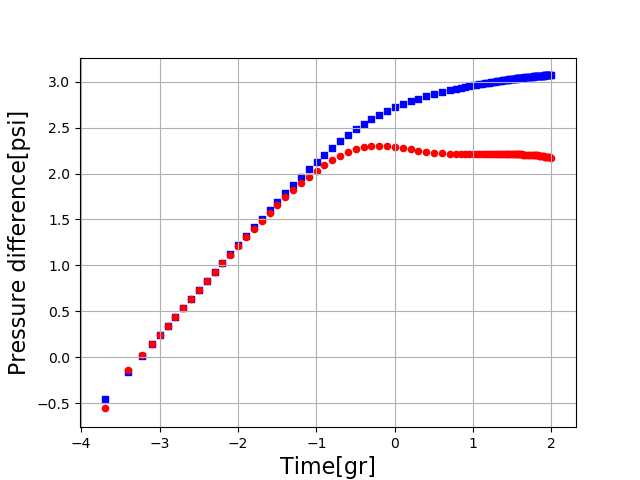
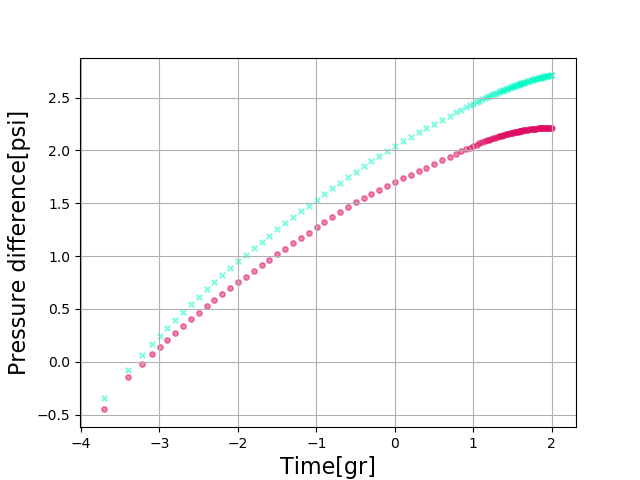
well test3

diff --git a/interface.py b/interface.py
@@ -12,7 +12,7 @@ from PyQt5.QtWidgets import QBoxLayout, QTextEdit, QRadioButton, QButtonGroup, Q
 word = None
 global hpp
 globals()['interface'] = True
-is_open = True
+globals()['is_open'] = True
 pic1 = True
 if globals().get("processor") is not None:
     global processor
@@ -21,12 +21,11 @@ else:
 
 
 def den():
-    global is_open
-    is_open = False
+    globals()['is_open'] = False
+
 
 def pos():
-    global is_open
-    is_open = True
+    globals()['is_open'] = True
 
 
 class bottom_collection:
@@ -82,13 +81,13 @@ class bottom_collection:
                 return r'.\source\Infinite_Conductivity_fracture(Radius)\sample720.txt'
 
 
-def log_plot(df: pd.DataFrame, **kwargs):
+def log_plot(df: pd.DataFrame):
     plt.cla()
     plt.grid(True)
     plt.scatter([np.log10(float(i)) for i in df[df.columns[0]]], [np.log10(float(i)) for i in df[df.columns[1]]],
-                c='b', s=20, marker='s')
+                c='#01f9c6', s=15, marker='x', alpha=0.5)
     plt.scatter([np.log10(float(i)) for i in df[df.columns[2]]], [np.log10(float(i)) for i in df[df.columns[3]]],
-                c='r', s=20, marker='o')
+                c='#de0c62', s=15, marker='o', alpha=0.5)
     plt.xlabel("Time[gr]", fontsize=16)
     plt.ylabel("Pressure difference[psi]", fontsize=16)
     if globals()['pic1'] is True:
@@ -103,17 +102,17 @@ def text_inner(path, **kwargs):
     df = pd.read_csv(path, sep=' ')
     df = df.drop(0, axis=0)
     df = df.drop(df.shape[0], axis=0)
-    if not re.match(r'\(Radius\)', path) is not None:
-        kwargs["boundary type"] = "radius"
-    elif not re.match(r'\(Singal_fault\)', path) is not None:
-        kwargs["boundary type"] = "radius"
-    elif not re.match(r'\(Infinite\)', path) is not None:
-        kwargs["boundary type"] = "radius"
-    if not re.match(r'Infinite_Conductivity_fracture', path) is not None:
+    if re.match(r'\(Radius\)', path) is not None:
+        kwargs["boundary type"] = "Radius"
+    elif re.match(r'\(Singal_fault\)', path) is not None:
+        kwargs["boundary type"] = "Signal Fault"
+    elif re.match(r'\(Infinite\)', path) is not None:
+        kwargs["boundary type"] = "Infinite"
+    if re.match(r'Infinite_Conductivity_fracture', path) is not None:
         kwargs["well type"] = "Infinite Conductivity Fracture"
-    elif not re.match(r'Finite_Conductivity_fracture', path) is not None:
+    elif re.match(r'Finite_Conductivity_fracture', path) is not None:
         kwargs["well type"] = "Finite Conductivity Fracture"
-    elif not re.match(r'Finite_Radius', path) is not None:
+    elif re.match(r'Finite_Radius', path) is not None:
         kwargs["well type"] = "finite radius"
     kwargs["typical"] = ["Analytical model", "\n"
                                              "Wellbore=Constant", "Well=Vertical", "Reservoir=Homogeneous"]
@@ -263,17 +262,17 @@ class Example2(QWidget):
             path = ex3.line.text()
         Example2.text[""] = '\n'.join(["Analytical model\n",
                                        "Wellbore=Constant", "Well=Vertical", "Reservoir=Homogeneous"])
-        if not re.match(r'\(Radius\)', path) is not None:
+        if not len(re.findall(r'\(Radius\)', path)) == 0:
             Example2.text["Boundary type: "] = "Radius"
-        elif not re.match(r'\(Singal_fault\)', path) is not None:
+        elif any([len(re.findall(r'Singal', path)), len(re.findall(r'Signal', path))]):
             Example2.text["Boundary type: "] = "Singal Fault"
-        elif not re.match(r'\(Infinite\)', path) is not None:
+        elif not len(re.findall(r'\(Infinite', path)) == 0:
             Example2.text["Boundary type: "] = "Infinite"
-        if not re.match(r'Infinite_Conductivity_fracture', path) is not None:
+        if not len(re.findall(r'Infinite_Conductivity', path)) == 0:
             Example2.text["Well type: "] = "Infinite Conductivity Fracture"
-        elif not re.match(r'Finite_Conductivity_fracture', path) is not None:
+        elif not len(re.findall(r'Finite_Conductivity', path)) == 0:
             Example2.text["Well type: "] = "Finite Conductivity Fracture"
-        elif not re.match(r'Finite_Radius', path) is not None:
+        elif not len(re.findall(r'ite_R', path)) == 0:
             Example2.text["Well type: "] = "Finite Radius"
         self.textedit.setText(''.join(["{}{}\n".format(i, Example2.text[i]) for i in Example2.text.keys()]) +
                               "K = {:.4f}md\n".format(random.uniform(1, 40)) +
@@ -352,10 +351,11 @@ if __name__ == '__main__':
     ex3 = Example3()
     ex1.h1.clicked.connect(ex2.refresh)
     t1 = ex.save1
-
+    t1.triggered.connect(den)
     t1.triggered.connect(ex1.show)
     t2 = ex.save
     t2.triggered.connect(ex3.show)
+    t2.triggered.connect(pos)
     ex3.bt4.clicked.connect(ex2.input)
     b1 = ex3.bt4
     b1.clicked.connect(ex2.show)
